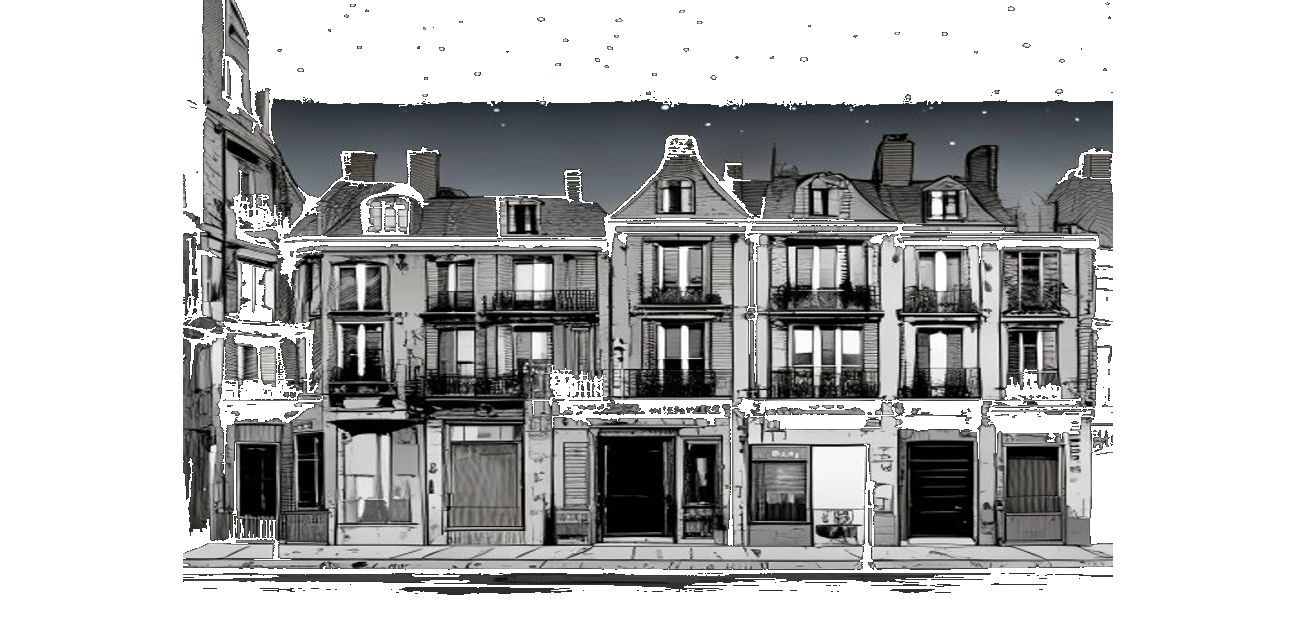
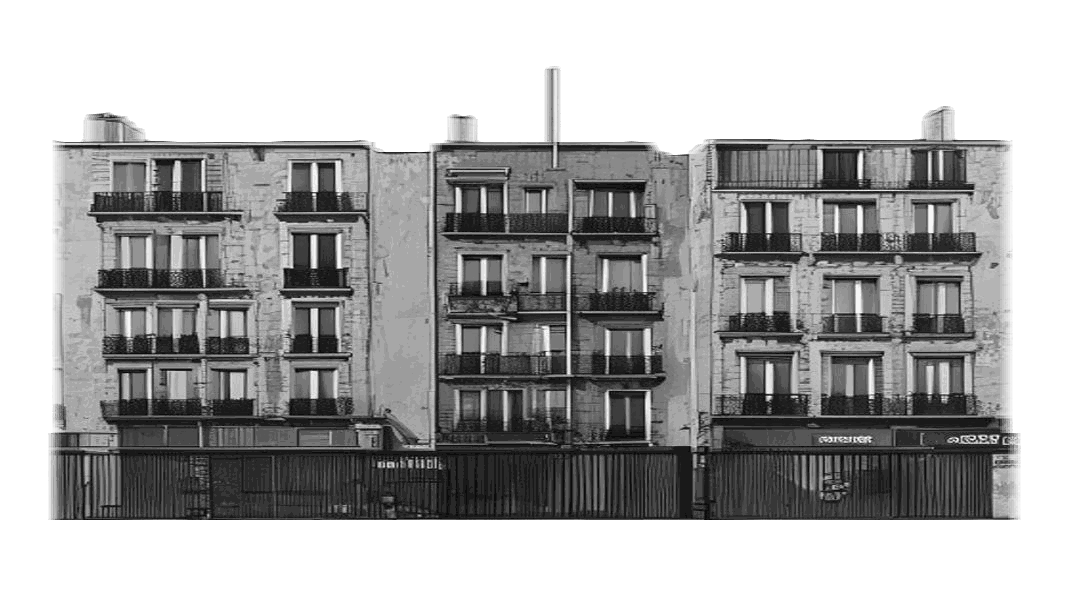
fix(art): tronçons = original img2img framing, desaturated — not text-to-image
Bertrand's call: the committed img2img tronçon art already had the right
composition — self-contained buildings that end naturally with transparent sky
margins, never cut at the frame edge. FLUX text-to-image lost that (it fills the
frame edge to edge); the img2img art's only flaw was colour.

So: restore the original tronçon PNGs and just strip the colour
(scripts/desat-troncons.mjs, Rec.601). Manifest tile aspects + backdropLayout
test reverted to the originals (1.6491/1.9224/1.7857). gen-belliard-decor.mjs no
longer generates tronçons (foreground only) so a regen can't clobber them; the
workflow drops the tronçon generate + sky-key steps. Draft §0 notes the pivot.

Verified: vitest 992/0, tsc clean.

diff --git a/src/game/levels/__tests__/backdropLayout.test.ts b/src/game/levels/__tests__/backdropLayout.test.ts
@@ -71,7 +71,7 @@ describe("getBackdropLayout — single-facade parity (fixed levels)", () => {
 
 describe("getBackdropLayout — belliard troncon-sequence geometry", () => {
   // Manifest sequence: troncon-a, troncon-c, troncon-b, troncon-c (padded aspects).
-  const ASPECTS = [1.9234, 2.1156, 2.0406, 2.1156];
+  const ASPECTS = [1.6491, 1.9224, 1.7857, 1.9224];
   const WIDTHS = ASPECTS.map((a) => WORLD_HEIGHT * a);
   const WIDTHS_SUM = WIDTHS.reduce((s, w) => s + w, 0);
   // fullW includes a TRONCON_GAP sky gap between each adjacent pair (n-1 gaps).

diff --git a/docs/art-direction/prompt-drafts/level-belliard-decor-v3.md b/docs/art-direction/prompt-drafts/level-belliard-decor-v3.md
@@ -8,6 +8,14 @@ joins the regeneration lot. (`street` was verified not-rendered in tronçon mode
 the lot after Serge's pre-prod pass — §5, §10.) Belliard regeneration lot: `troncon-a`,
 `troncon-b`, `troncon-c`, `sky`, `foreground`.
 
+> **⚠ PIVOT 2026-07-21 (Bertrand): tronçons = img2img framing + désaturation, PAS text-to-image.**
+> Le rendu réel a montré que FLUX text-to-image REMPLIT le cadre et coupe les immeubles aux bords.
+> L'art img2img d'origine avait déjà le bon cadrage (immeubles auto-contenus, marges de ciel, non
+> coupés) — son seul défaut était la couleur. Solution retenue: garder ce cadrage et juste
+> désaturer (`scripts/desat-troncons.mjs`). Les prompts tronçon text-to-image ci-dessous sont
+> CONSERVÉS pour mémoire mais NE SONT PLUS la source des tuiles. `gen-belliard-decor.mjs` ne
+> génère plus que le foreground.
+
 Supersedes [`level-belliard-decor-v2.md`](level-belliard-decor-v2.md). Structural authority:
 [`ADR-0048`](../../adr/0048-troncon-sequence-backdrop-mode.md). Consumes the two validated
 boards (do not reopen): `board-belliard-decor.md` (D1–D5), `board-belliard-decor-v2.md`.
